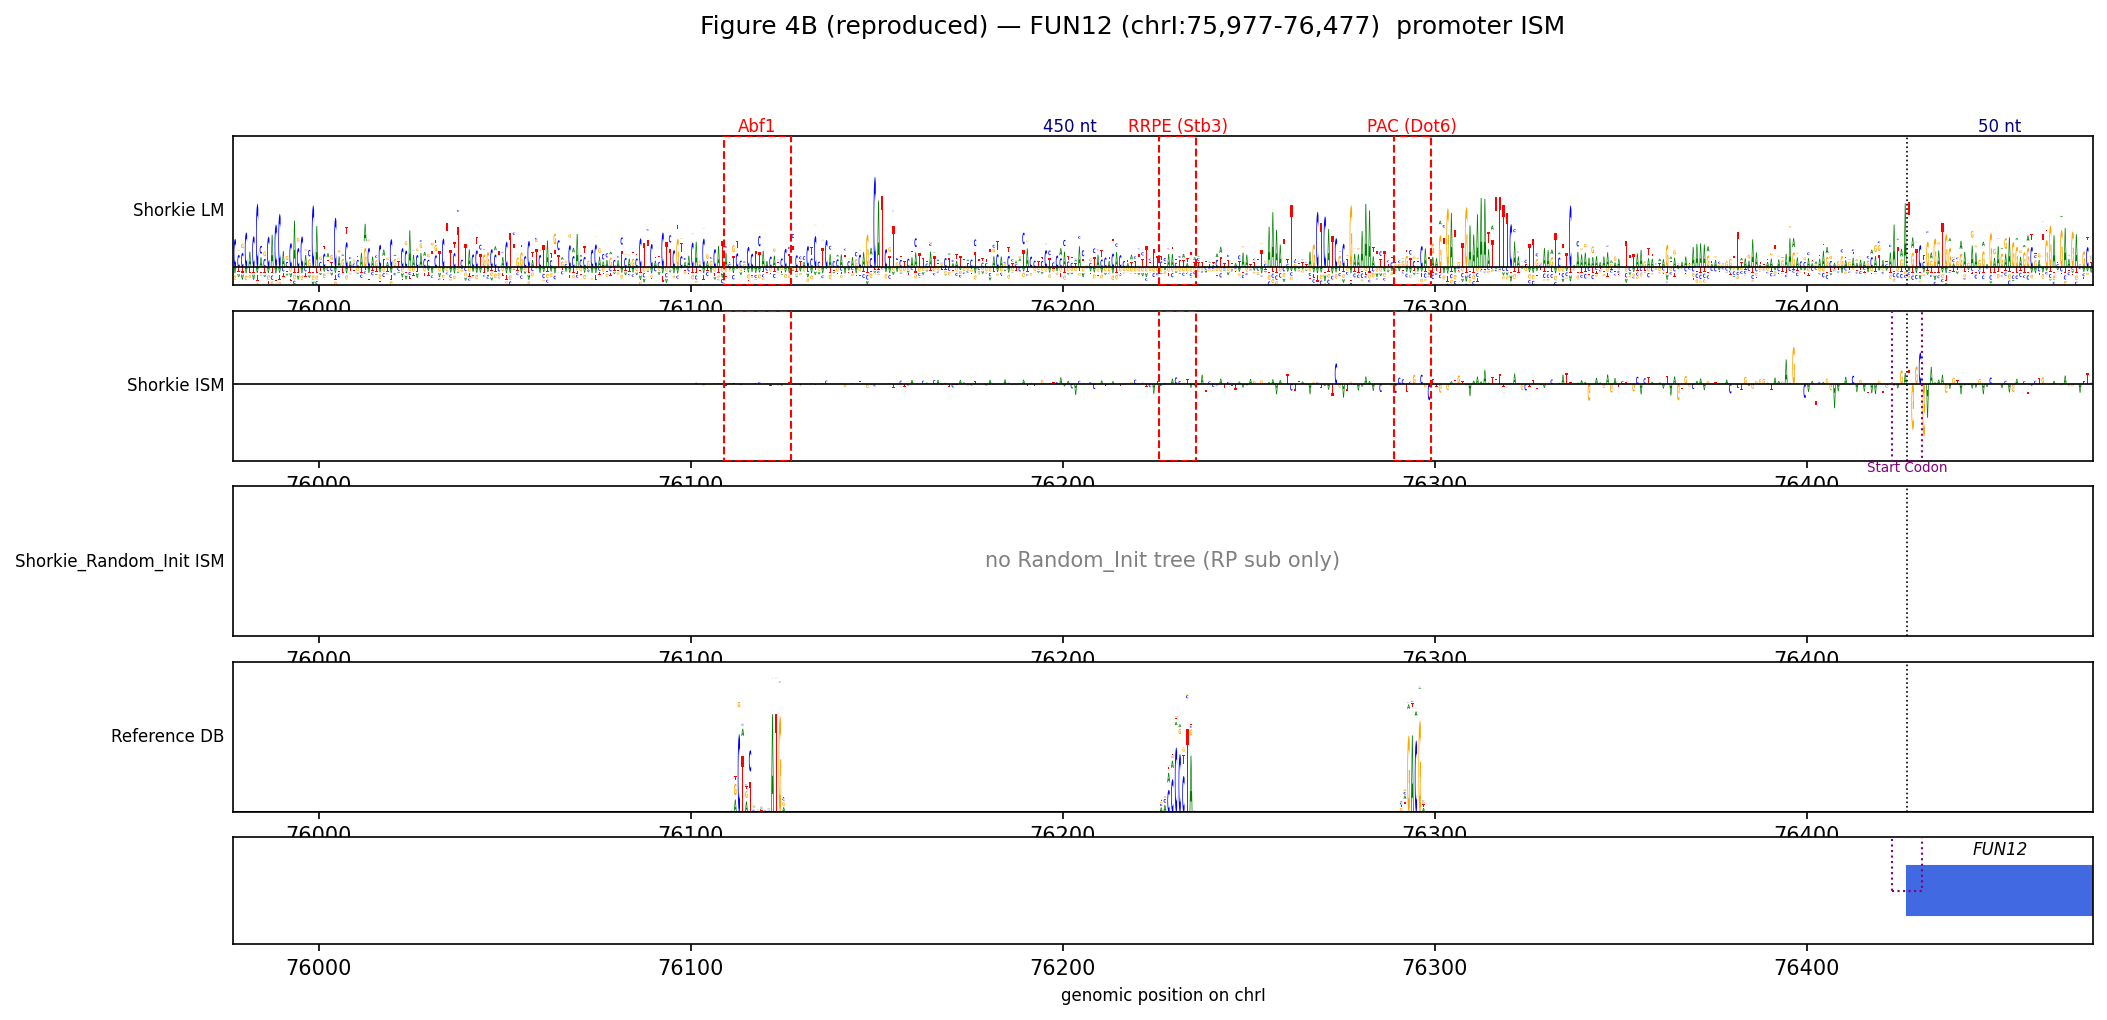
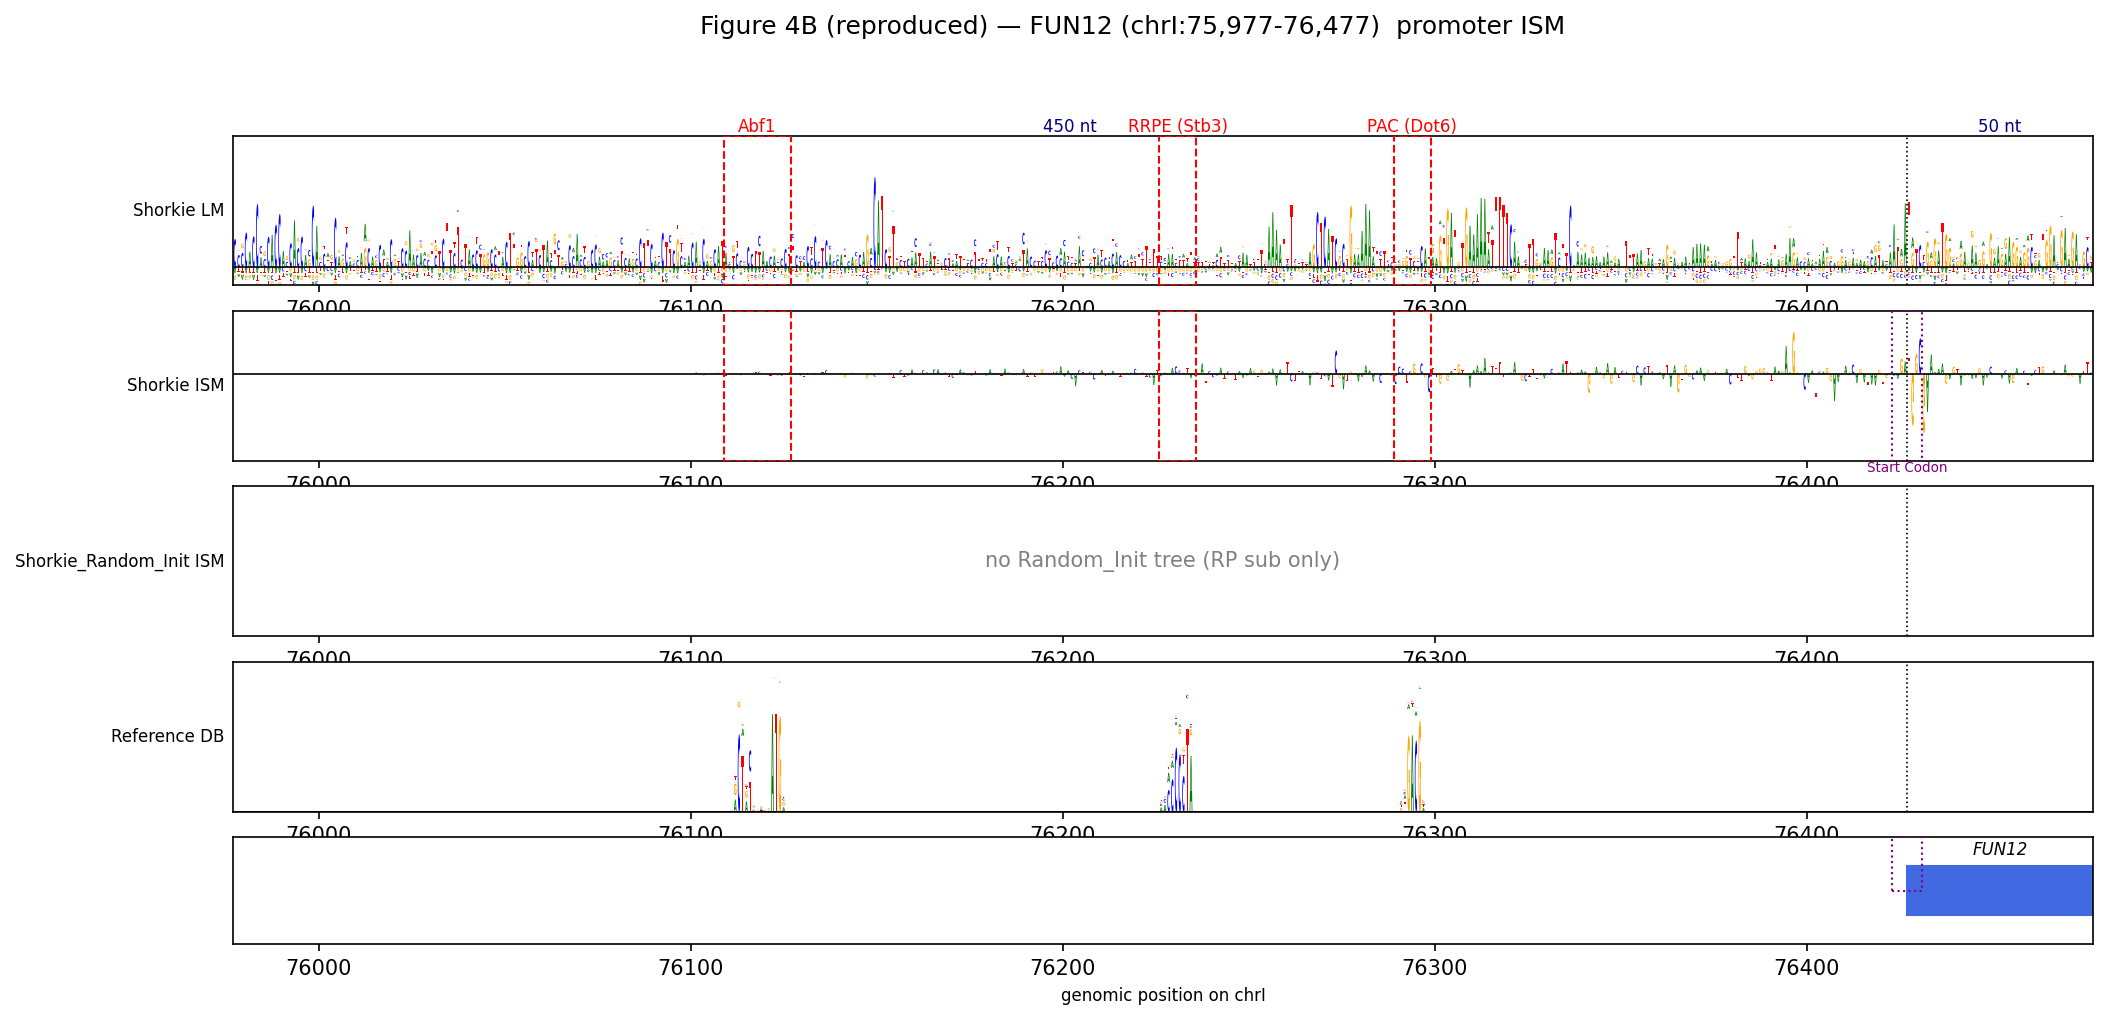
Figure 4: clean uniform ISM-saliency grid (precomputed only, region-matched, no annotations)
Re-plot every per-base saliency logo Figure 4 is built from, on a uniform footing,
from PRECOMPUTED scores only (ISM scores.h5 / LM preds.npz via caches) — no ISM
re-run, no GPU.

New recheck/build_4_ism_grid.py:
- Uniform scale: every logo drawn in the identical physical box (11.0x0.85 in);
  bp/inch varies because the published windows differ in length (196-776 bp).
- Exact region match: each logo's x-axis = the published panel window (now in
  fig4_common.PUB_WIN, read off published/Figure_4_full.png). New helper
  fig4_common.slice_to_window() crops the saliency to that window; FUN12 ISM covers
  75% and MMS2 ISM 57% (the released ISM windows are offset), others ~100%.
- All saliency rows that exist (data-driven): RPL26A LM+ISM+Random; FUN12/KRE33
  LM+ISM; DTD1/MMS2/HOP2 ISM. No Reference-DB, gene models, TF/splice boxes,
  dividers or curated text — just logos + a minimal gene/source label and coords.
- Output: reproduced/Figure_4_ISM_grid_reproduced.png + recheck/fig4_ism_grid_metrics.csv.

Also:
- build_4ABC.py: slice the ISM/Random rows to the displayed window before draw_logo
  so the auto y-scale reflects the visible region (fixes the FUN12 offset; loc values
  unchanged -> annotated panels still pass).
- build_verify_fig04.py: +6 grid checks (png, 10 logos, uniform box, full coverage
  >=0.99, FUN12/MMS2 partial <=0.99, localization >=5x) -> verify 25/25 PASS.
- README: "Clean uniform ISM grid" section (rules + per-panel region/coverage table +
[…]

Changed region(s): [[0.1234, 0.3343, 1.0, 0.3951]]

diff --git a/reproduction/figure_04/recheck/build_4_ism_grid.py b/reproduction/figure_04/recheck/build_4_ism_grid.py
@@ -1,0 +1,151 @@
+#!/usr/bin/env python3
+"""Figure 4 — clean uniform ISM-saliency grid (recheck).
+
+A single, annotation-free view of *every* per-base saliency logo Figure 4 is built
+from, rendered so that:
+
+  1. **Uniform scale** — every logo occupies the *identical physical box* (same width
+     and height in inches); regions of different length therefore have different
+     bp-per-inch (the user's chosen reading of "same subplot scale").
+  2. **Exact region match** — each logo's x-axis is the *published* panel window
+     (fig4_common.PUB_WIN, read off published/Figure_4_full.png). Where the released
+     ISM scores.h5 window is offset (FUN12, MMS2) only the covered intersection is
+     drawn and the covered fraction is recorded.
+  3. **All saliency rows that exist** — per gene we stack Shorkie LM + Shorkie ISM +
+     Shorkie Random_Init ISM, but *only* for the sources whose precomputed data is on
+     disk (data-driven). No Reference-DB, gene models, TF boxes, splice boxes, dividers
+     or curated text — just the logos + a minimal row label and genomic coords.
+
+Precomputed only: reads ISM scores.h5 / LM preds.npz (via the per-row caches) — **no
+ISM re-run, no GPU, no model load**.
+
+Resulting rows (released data): RPL26A -> LM+ISM+Random (3); FUN12 -> LM+ISM (2);
+KRE33 -> LM+ISM (2); DTD1/MMS2/HOP2 -> ISM (1).  (The published FUN12/KRE33 Random and
+MMS2 LM/Random rows came from data not in the released registry — documented residual.)
+
+Output: reproduced/Figure_4_ISM_grid_reproduced.png + recheck/fig4_ism_grid_metrics.csv
+"""
+import sys
+from pathlib import Path
+import numpy as np
+import pandas as pd
+import matplotlib
+matplotlib.use("Agg")
+import matplotlib.pyplot as plt
+
+sys.path.insert(0, str(Path(__file__).resolve().parent))
+import fig4_common as F
+
+# ---- identical physical box for every logo (inches) ---------------------------------
+BOX_W, BOX_H = 11.0, 0.85
+LEFT, RIGHT, TOP, BOT = 2.7, 0.35, 0.55, 0.6
+GAP, GROUP_GAP = 0.30, 0.60            # between rows of a gene / between genes
+
+
+def _row(gene, panel, source, sal):
+    """sal = (v, chrom_or_contig, data_start, data_end). Slice to the published window."""
+    chrom, ps, pe = F.PUB_WIN[gene]
+    v, _, dstart, _ = sal
+    v_sub, x0, cov = F.slice_to_window(v, dstart, ps, pe)
+    return dict(gene=gene, panel=panel, source=source, chrom=chrom,
+                pub_start=ps, pub_end=pe, v_sub=v_sub, x0=x0,
+                covered_frac=round(cov, 4), localization=round(F.localization(v), 2))
+
+
+def gather_rows():
+    """All saliency rows whose precomputed data exists, in published panel order."""
+    rows = []
+    for spec in F.PROM:
+        gene = spec["gene"]
+        # Shorkie LM (preds.npz via per-row cache) — its window == the published window
+        lm = F.lm_saliency(spec["lm_set"], spec["lm_row"])
+        rows.append(_row(gene, spec["panel"], "Shorkie LM", lm))
+        # Shorkie ISM (fine-tuned logSED)
+        ism = F.ism_saliency("motif_shorkie_RP_TSS", spec["sub"], spec["part"], spec["idx"])
+        if ism is not None:
+            rows.append(_row(gene, spec["panel"], "Shorkie ISM", ism))
+        # Shorkie Random_Init ISM (only the RP sub is released -> RPL26A)
+        if spec["random"]:
+            rnd = F.ism_saliency("motif_random_init_RP_TSS", "gene_exp_motif_test_RP",
+                                 spec["part"], spec["idx"])
+            if rnd is not None:
+                rows.append(_row(gene, spec["panel"], "Shorkie Random_Init ISM", rnd))
+    for spec in F.SPLICE:
+        gene = spec["gene"]
+        ism = F.ism_saliency("motif_shorkie_RP_TSS", "gene_exp_motif_test_SS", spec["part"], 0)
+        if ism is not None:
+            rows.append(_row(gene, spec["panel"], "Shorkie ISM", ism))
+    return rows
+
+
+def draw_row(ax, r, first_of_gene, last_of_gene):
+    ps, pe = r["pub_start"], r["pub_end"]
+    v = r["v_sub"]
+    if v.shape[0] > 0:
+        F.draw_logo(ax, v, x0=r["x0"])
+    else:                                                  # no overlap (shouldn't happen here)
+        ax.axhline(0, color="black", lw=0.8); ax.set_ylim(-1, 1)
+        ax.text((ps + pe) / 2, 0, "no ISM data in window", ha="center", va="center",
+                fontsize=7, color="gray")
+    ax.set_xlim(ps, pe); ax.set_yticks([])
+    for s in ("top", "right", "left"):
+        ax.spines[s].set_visible(False)
+    # row label (gene + source), just left of the box
+    ax.text(-0.012, 0.5, f"{r['gene']}\n{r['source']}", transform=ax.transAxes,
+            ha="right", va="center", fontsize=7.5)
+    # compact coord + coverage, top-left inside the box
+    cov = r["covered_frac"]
+    covnote = "" if cov >= 0.999 else f"   (covered {cov:.0%})"
+    ax.text(0.004, 0.96, f"{r['chrom']}:{ps:,}-{pe:,}{covnote}", transform=ax.transAxes,
+            ha="left", va="top", fontsize=6.3, color="#555555")
+    # genomic x ticks only on the last row of each gene (rows share the gene's window)
+    if last_of_gene:
+        ticks = np.linspace(ps, pe, 4)
+        ax.set_xticks(ticks); ax.set_xticklabels([f"{int(t):,}" for t in ticks], fontsize=6.5)
+    else:
+        ax.set_xticks([])
+
+
+def main():
+    rows = gather_rows()
+    n = len(rows)
+    # figure height = uniform boxes + per-row gaps + extra gap between genes
+    extra = sum(GAP + (GROUP_GAP if rows[i]["gene"] != rows[i - 1]["gene"] else 0.0)
+                for i in range(1, n))
+    fig_w = LEFT + BOX_W + RIGHT
+    fig_h = TOP + n * BOX_H + extra + BOT
+    fig = plt.figure(figsize=(fig_w, fig_h))
+
+    panel_marks = []           # (panel_letter, y_center_fraction) for the gene's first row
+    y = fig_h - TOP
+    for i, r in enumerate(rows):
+        if i > 0:
+            y -= GAP + (GROUP_GAP if r["gene"] != rows[i - 1]["gene"] else 0.0)
+        y -= BOX_H
+        ax = fig.add_axes([LEFT / fig_w, y / fig_h, BOX_W / fig_w, BOX_H / fig_h])
+        first = (i == 0 or rows[i - 1]["gene"] != r["gene"])
+        last = (i == n - 1 or rows[i + 1]["gene"] != r["gene"])
+        draw_row(ax, r, first, last)
+        if first:
+            panel_marks.append((r["panel"], (y + BOX_H / 2) / fig_h))
+
+    for panel, yc in panel_marks:
+        fig.text(0.012, yc, panel, ha="left", va="center", fontsize=13, fontweight="bold")
+    fig.text(0.5, 1 - 0.18 / fig_h, "Figure 4 (reproduced) — all ISM saliency logos, "
+             "uniform scale, region-matched (no annotations)", ha="center", va="top", fontsize=11)
+
+    out = F.RD / "Figure_4_ISM_grid_reproduced.png"
+    fig.savefig(out, dpi=150)                              # NO bbox_inches='tight' -> identical boxes
+    plt.close(fig)
+
+    meta = pd.DataFrame([{k: r[k] for k in
+                          ("panel", "gene", "source", "chrom", "pub_start", "pub_end",
+                           "covered_frac", "localization")} for r in rows])
+    meta["box_w_in"] = BOX_W; meta["box_h_in"] = BOX_H    # record the uniform box size
+    meta.to_csv(F.RECHECK / "fig4_ism_grid_metrics.csv", index=False)
+    print("saved", out, f"| {n} uniform logos ({BOX_W}x{BOX_H} in each)")
+    print(meta.to_string(index=False))
+
+
+if __name__ == "__main__":
+    main()

diff --git a/reproduction/figure_04/recheck/fig4_common.py b/reproduction/figure_04/recheck/fig4_common.py
@@ -115,6 +115,19 @@ SPLICE = [
     dict(panel="F", gene="MMS2", part=57),
     dict(panel="G", gene="HOP2", part=80),
 ]
+# Exact genomic window shown in each published Figure-4 panel header (read off
+# published/Figure_4_full.png and cross-checked against the LM 450/50 TSS window for
+# A/B/C). The clean ISM grid slices each saliency logo to these windows; for FUN12 &
+# MMS2 the released ISM scores.h5 window is offset, so only the covered intersection is
+# drawn (see slice_to_window's covered_frac).
+PUB_WIN = {
+    "RPL26A": ("chrXII", 818862, 819362),   # A — == ISM data window (full)
+    "FUN12":  ("chrI",   75977,  76477),    # B — ISM data is chrI:76,101-76,601 (~124 bp offset)
+    "KRE33":  ("chrXIV", 374871, 375371),   # C — == ISM data window (full)
+    "DTD1":   ("chrIV",  65235,  65431),    # E — within SS data window (full)
+    "MMS2":   ("chrVII", 346669, 347169),   # F — ISM data is chrVII:346,354-346,954 (partial)
+    "HOP2":   ("chrVII", 435625, 436401),   # G — within SS data window (full)
+}
 # Panel H curated TF order (figure label -> meme motif name / cached asset).
 FIG4H_TFS = [
     ("Rap1", "RAP1"), ("Fhl1", "FHL1"), ("Sfp1.1", "SFP1"), ("TATA Box", "@TATATA"),
@@ -195,6 +208,27 @@ def localization(v):
     persite = np.abs(v).sum(axis=1)
     med = float(np.median(persite))
     return float(persite.max() / med) if med > 0 else float("inf")
+
+
+def slice_to_window(v, data_start, pub_start, pub_end):
+    """Slice a per-base saliency array `v` (L,4) — which covers genomic [data_start,
+    data_start+L) — down to the published window [pub_start, pub_end).
+
+    Returns (v_sub, x0, covered_frac):
+      v_sub        the rows of v inside the window (may be empty / partial),
+      x0           genomic coordinate of v_sub[0] (draw the logo at this x),
+      covered_frac fraction of the published window the data actually covers
+                   (1.0 = fully covered; <1.0 for the offset FUN12/MMS2 windows; 0.0 = no overlap).
+    The caller sets ax.set_xlim(pub_start, pub_end) so a partial logo sits in the covered
+    sub-range with the uncovered flank left blank — rows still align on genomic coordinate."""
+    L = int(v.shape[0])
+    data_end = data_start + L
+    lo = max(int(pub_start), int(data_start))
+    hi = min(int(pub_end), int(data_end))
+    pub_len = int(pub_end) - int(pub_start)
+    if hi <= lo or pub_len <= 0:
+        return v[:0], int(pub_start), 0.0
+    return v[lo - data_start: hi - data_start], lo, (hi - lo) / pub_len
 
 
 # ======================================================================================

diff --git a/reproduction/figure_04/recheck/build_verify_fig04.py b/reproduction/figure_04/recheck/build_verify_fig04.py
@@ -66,6 +66,25 @@ def main():
     checks.append(Check("4D", "panelD_reconstruction_rendered", 1.0,
                         1.0 if (F.RD / "Figure_4D_reproduced.png").exists() else 0.0, rtol=0, atol=0))
 
+    # ---- clean uniform ISM grid (build_4_ism_grid.py) ----
+    grid_csv = F.RECHECK / "fig4_ism_grid_metrics.csv"
+    if grid_csv.exists():
+        g = pd.read_csv(grid_csv)
+        checks.append(Check("4grid", "ISM_grid_png_rendered", 1.0,
+                            1.0 if (F.RD / "Figure_4_ISM_grid_reproduced.png").exists() else 0.0, rtol=0, atol=0))
+        checks.append(Check("4grid", "n_saliency_logos(==10)", 10.0, float(len(g)), rtol=0, atol=0))
+        # every logo drawn at the identical physical box size (uniform scale)
+        uniform = 1.0 if (g["box_w_in"].nunique() == 1 and g["box_h_in"].nunique() == 1) else 0.0
+        checks.append(Check("4grid", "uniform_box_size(all_equal)", 1.0, uniform, rtol=0, atol=0))
+        # exact region match: full coverage for RPL26A/KRE33/DTD1/HOP2, partial for FUN12/MMS2 ISM
+        full = g[g["gene"].isin(["RPL26A", "KRE33", "DTD1", "HOP2"])]
+        checks.append(Check("4grid", "full_coverage_genes(>=0.99)", 0.99, float(full["covered_frac"].min()), mode="ge"))
+        part = g[(g["gene"].isin(["FUN12", "MMS2"])) & (g["source"] == "Shorkie ISM")]
+        checks.append(Check("4grid", "FUN12/MMS2_ISM_partial(<=0.99)", 0.99, float(part["covered_frac"].max()), mode="le"))
+        # every ISM logo localizes (peak/median per-site saliency)
+        ism = g[g["source"] == "Shorkie ISM"]
+        checks.append(Check("4grid", f"all_ISM_localization(>={LOC_MIN}x)", LOC_MIN, float(ism["localization"].min()), mode="ge"))
+
     print(summary(checks))
     write_verdicts(checks, F.RD / "verify_fig04.csv")
     npass = sum(c.verdict == "PASS" for c in checks)

diff --git a/reproduction/figure_04/recheck/build_4ABC.py b/reproduction/figure_04/recheck/build_4ABC.py
@@ -60,7 +60,12 @@ def main():
         loc_ism = float("nan"); ovl = 0
         if ism is not None:
             v, c2, istart, iend = ism
-            F.draw_logo(ax, v, x0=istart); ax.set_xlim(rs, re_)
+            # slice to the displayed (published) window first so draw_logo's auto y-scale
+            # reflects the visible region, not a peak in the clipped flank (FUN12 offset)
+            v_sub, x0i, _ = F.slice_to_window(v, istart, rs, re_)
+            if v_sub.shape[0]:
+                F.draw_logo(ax, v_sub, x0=x0i)
+            ax.set_xlim(rs, re_)
             loc_ism = F.localization(v)
             ovl = int(not (iend < F.gene_features(gene)["start"] - 600 or istart > F.gene_features(gene)["end"] + 100))
         else:
@@ -68,7 +73,11 @@ def main():
         # 3) Random_Init ISM
         ax = axes[2]; loc_rnd = float("nan")
         if rnd is not None:
-            vr, _, rst, _ = rnd; F.draw_logo(ax, vr, x0=rst); ax.set_xlim(rs, re_)
+            vr, _, rst, _ = rnd
+            vr_sub, x0r, _ = F.slice_to_window(vr, rst, rs, re_)
+            if vr_sub.shape[0]:
+                F.draw_logo(ax, vr_sub, x0=x0r)
+            ax.set_xlim(rs, re_)
             loc_rnd = F.localization(vr)
         else:
             ax.text((rs + re_) / 2, 0.0, "no Random_Init tree (RP sub only)",

diff --git a/reproduction/figure_04/README.md b/reproduction/figure_04/README.md
@@ -50,7 +50,7 @@ The gene → `(tree, sub, part, idx)` mapping was **not trusted as hardcoded**. 
 
 ## Phase 3 — Verification
 
-**`reproduced/verify_fig04.csv`: 19/19 PASS.** Figure 4 is qualitative (saliency maps + motif logos), so each panel is verified two ways (the deep recheck added the panel-completeness checks — "Shorkie LM row rendered" for A/B/C, panel-H TomTom-matched-TF count, panel-D reconstruction rendered):
+**`reproduced/verify_fig04.csv`: 25/25 PASS.** Figure 4 is qualitative (saliency maps + motif logos), so each panel is verified two ways (the deep recheck added the panel-completeness checks — "Shorkie LM row rendered" for A/B/C, panel-H TomTom-matched-TF count, panel-D reconstruction rendered; the last 6 checks cover the [clean uniform ISM grid](#clean-uniform-ism-grid-build_4_ism_gridpy) — 10 logos, uniform box size, region coverage, localization):
 
 1. **Coordinate-overlap (correctness):** every panel's ISM window provably overlaps its R64 gene — 6/6 PASS. This is the strong check: it proves the reproduced panel shows the *claimed* gene.
 2. **Localized ISM signal (scale-invariant):** the Shorkie saliency peak exceeds **5× the window median** per-site saliency (a concentrated motif, not diffuse noise). Measured localization ratios:
@@ -89,8 +89,10 @@ CPU-only and resolve every path through `shorkie.config` — no hardcoded machin
    committed**, so the rest runs without MEME installed.
 2. `build_4ABC.py`, `build_4D.py`, `build_4EFG.py`, `build_4H.py` — render the panel PNGs into
    `reproduced/` and write the per-panel metric CSVs.
-3. `build_verify_fig04.py` — recomputes the checks → `reproduced/verify_fig04.csv`.
-4. `make_sidebyside_fig04.py` — published-vs-reproduced comparison PNGs (verification aid).
+3. `build_4_ism_grid.py` — the clean uniform ISM grid (see below) → `Figure_4_ISM_grid_reproduced.png`
+   + `fig4_ism_grid_metrics.csv`.
+4. `build_verify_fig04.py` — recomputes the checks → `reproduced/verify_fig04.csv`.
+5. `make_sidebyside_fig04.py` — published-vs-reproduced comparison PNGs (verification aid).
 
 The notebook [`reproduce_figure_04.ipynb`](reproduce_figure_04.ipynb) simply invokes builders 2–3 in order.
 
@@ -98,3 +100,36 @@ The notebook [`reproduce_figure_04.ipynb`](reproduce_figure_04.ipynb) simply inv
 PNGs, `verify_fig04.csv`, and `tomtom_RP_matches.tsv` (so panel H reproduces without MEME). Gitignored
 caches, regenerated on demand: `lm_cache_*.npz` (LM per-row slices), `_modisco_RP_query.meme` +
 `_tomtom_RP/` (TomTom intermediates), and `__pycache__/`.
+
+---
+
+## Clean uniform ISM grid (`build_4_ism_grid.py`)
+
+A single annotation-free view — `reproduced/Figure_4_ISM_grid_reproduced.png` — that re-plots **every
+per-base saliency logo Figure 4 is built from**, on a deliberately uniform footing. It uses only the
+**precomputed** scores (ISM `scores.h5`, LM `preds.npz` via the per-row caches) — **no ISM re-run, no
+GPU**. Three rules:
+
+1. **Uniform scale** — every logo is drawn in the *identical physical box* (11.0 × 0.85 in). Because the
+   panel windows differ in length (196 bp – 776 bp), bp-per-inch varies (letters look wider in short
+   windows). Verified by `uniform_box_size` in the verify CSV.
+2. **Exact region match** — each logo's x-axis is the *published* panel window. Where the released ISM
+   window is offset from the paper's, only the covered intersection is drawn and the covered fraction is
+   recorded (the left flank is left blank; rows still align on genomic coordinate).
+3. **All saliency rows that exist** — Shorkie LM + Shorkie ISM + Shorkie Random_Init, included only where
+   the precomputed data is on disk. No Reference-DB, gene models, TF boxes, splice boxes, dividers or
+   curated text — just the logos + a minimal `gene · source` label and the genomic coordinates.
+
+| Panel | Gene | Published window | Rows rendered | ISM coverage |
+|---|---|---|---|---|
+| A | RPL26A | chrXII:818,862-819,362 | LM · ISM · Random_Init | 100% |
+| B | FUN12 | chrI:75,977-76,477 | LM · ISM | **75%** (ISM data is chrI:76,101-76,601, ~124 bp offset) |
+| C | KRE33 | chrXIV:374,871-375,371 | LM · ISM | ~100% |
+| E | DTD1 | chrIV:65,235-65,431 | ISM | 100% |
+| F | MMS2 | chrVII:346,669-347,169 | ISM | **57%** (ISM data is chrVII:346,354-346,954) |
+| G | HOP2 | chrVII:435,625-436,401 | ISM | 100% |
+
+> **Residual (not fabricated).** The published B/C panels show a Random_Init row and the published F panel
+> shows LM + Random_Init rows, but those came from data not in the released registry (`motif_random_init_RP_TSS`
+> has only the **RP** sub; LM `preds.npz` has no `eval_SS`). The grid plots only the saliency rows whose
+> data is actually on disk, so FUN12/KRE33 show LM+ISM and the splice genes show ISM only.